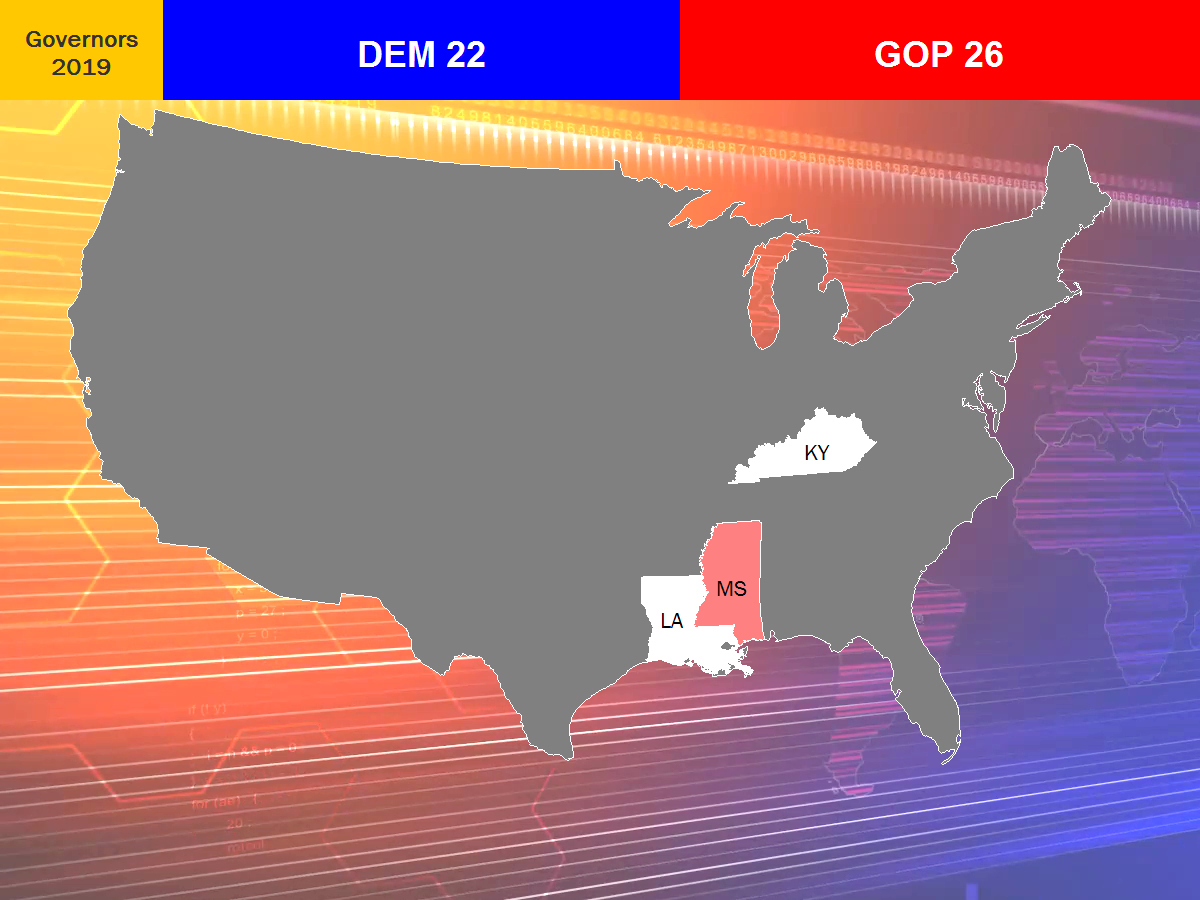
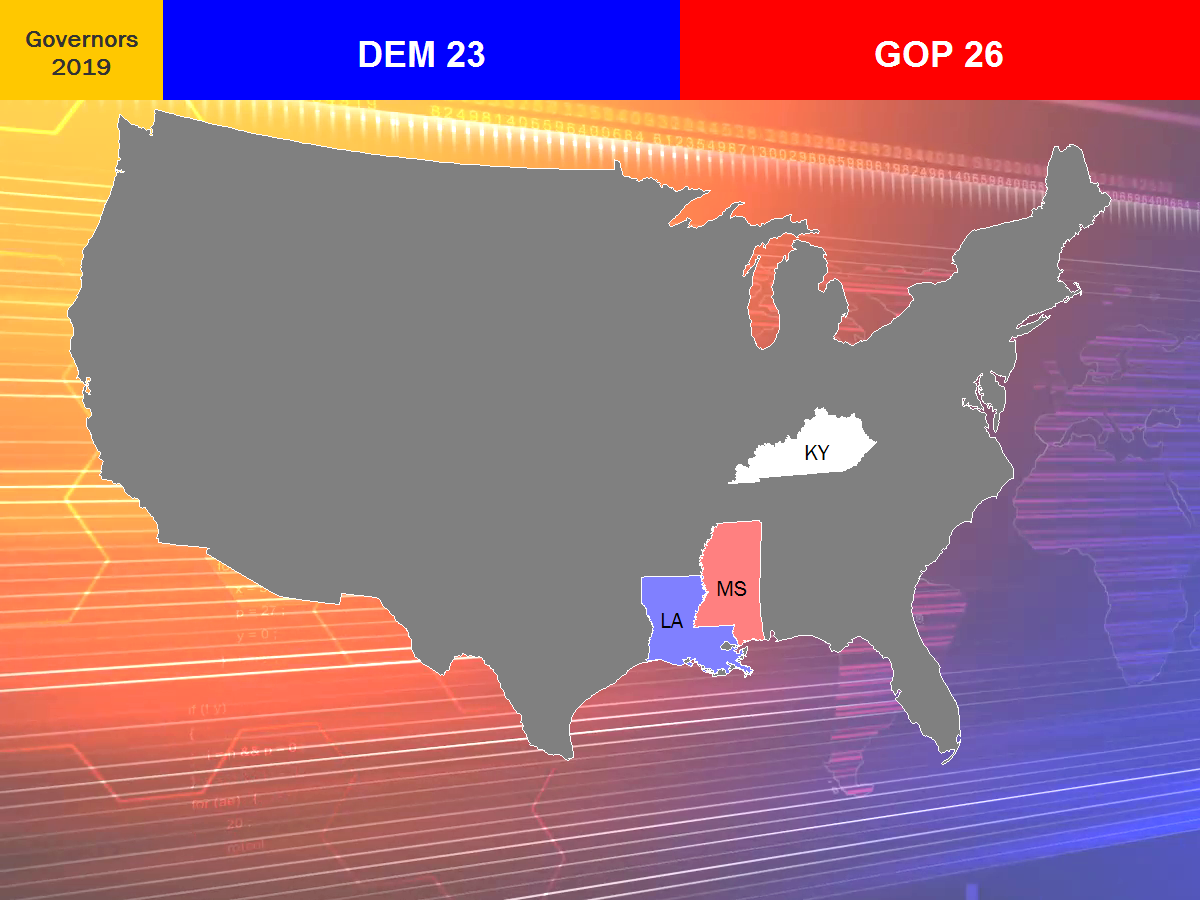
update 2019-11-14

Changed region(s): [[0.5242, 0.6222, 0.6167, 0.7467]]

diff --git a/election/2019/index.html b/election/2019/index.html
@@ -57,14 +57,14 @@
 <td style="text-align: center;">Louisiana<br>(Runoff)</td>
 <td style="text-align: center;">John Bel Edwards</td>
 <td style="text-align: center;">Eddie Rispone</td>
-<td style="text-align: center;"><span style="color: #007f00;">--</span></td>
-<td style="text-align: center;"><span style="color: #007f00;">--</span></td>
-<td style="text-align: center;"><span style="color: #007f00;">--</span></td>
-<td style="text-align: center;"><span style="color: #007f00;">--</span></td>
-<td style="text-align: center;"><span style="color: #007f00;">--</span></td>
-<td style="text-align: center;"><span style="color: #007f00;">--</span></td>
-<td style="text-align: center;"><span style="color: #007f00;">--</span></td>
-<td style="text-align: center;"><span style="color: #007f00;">Tossup</span></td>
+<td style="text-align: center;"><span style="color: #0000ff;">Edwards +1.0</span></td>
+<td style="text-align: center;"><span style="color: #0000ff;">57.5% D</span></td>
+<td style="text-align: center;"><span style="color: #0000ff;">Edwards +0.7</span></td>
+<td style="text-align: center;"><span style="color: #0000ff;">54.4% D</span></td>
+<td style="text-align: center;"><span style="color: #0000ff;">Edwards +1.8</span></td>
+<td style="text-align: center;"><span style="color: #0000ff;">Edwards +3</span></td>
+<td style="text-align: center;"><span style="color: #0000ff;">Edwards 67.7%</span></td>
+<td style="text-align: center;"><span style="color: #0000ff;">Leans D</span></td>
 </tr>
 <tr>
 <td style="text-align: center;">Mississippi</td>
@@ -85,7 +85,7 @@
 <h2>Analysis</h2>
 <p>Off-year major statewide elections include the following:</p>
 <p><strong>Kentucky Governor (Tossup)</strong>. Incumbent Gov. Matt Bevin (R) is up for reelection against state Attorney General Andy Beshear (D), son of Bevin's predecessor, former Gov. Steve Beshear (D). Despite the deep-red lean of the state, Kentucky still has more registered Democrats than Republicans. This and Bevin's extremely low approval ratings spell trouble for his reelection bid. Bevin's campaign has focused on his ties to President Trump, who won Kentucky by almost 30 points in 2016, and casts Beshear as a liberal Democrat out of step with Kentucky politics. If Bevin wins reelection, he will be the first Republican to serve two consecutive terms in Kentucky state history since Kentucky law allowed governors to serve consecutive terms in the 1990s. <i>Note: It's unusual that I'm leaving a race rated as tossup heading into an election. However, there simply isn't enough data for me to run a model. However, if you had forced me to guess something, I would say that Bevin (R) is a slight favorite with 2-1 odds.</i></p>
-<p><strong>Louisiana Governor (Tossup)</strong>. Incumbent Gov. John Bel Edwards (D) is running for reelection this year in the state's runoff election against businessman Eddie Rispone (R) after failing to clear 50% in the jungle primary. Similar to Kentucky, Louisiana is a conservative state but with more registered Democrats than Republicans. Gov. Edwards is a conservative Democrat who has a healthy approval rating despite Louisiana's political leanings. However, given that Edwards underperformed slightly in rural areas and faced low turnout in urban areas, it remains to be seen as to whether he will overcome Louisiana's red lean, or whether he would be able to garner some support from those who supported Congressman Ralph Abraham (R) in the jungle primary.</p>
+<p><strong>Louisiana Governor (Leans D)</strong>. Incumbent Gov. John Bel Edwards (D) is running for reelection this year in the state's runoff election against businessman Eddie Rispone (R) after failing to clear 50% in the jungle primary. Similar to Kentucky, Louisiana is a conservative state but with more registered Democrats than Republicans. Gov. Edwards is a conservative Democrat who has a healthy approval rating despite Louisiana's political leanings. However, given that Edwards underperformed slightly in rural areas and faced low turnout in urban areas, it remains to be seen as to whether he will overcome Louisiana's red lean, or whether he would be able to garner some support from those who supported Congressman Ralph Abraham (R) in the jungle primary. Nonetheless, he heads into the runoff with the edge.</p>
 <p><strong>Mississippi Governor (Leans R)</strong>. Lieutenant Governor Tate Reeves (R) faces off with state Attorney General Jim Hood (D) to replace term-limited Gov. Phil Bryant (R). In a solid-red Deep South state, Hood has been the only Democrat to hold statewide office in Mississippi since 2008, and is likely to be the Democrats' best chance at the Governor's Mansion since Gov. Ronnie Musgrove's (D) re-election campaign in 2003, which he went on to lose to former RNC chair Haley Barbour (R). However, as a legacy of the Jim Crow era, Mississippi state law states that a candidate must both win a majority of the popular vote and a majority of the state house districts to win the election; otherwise, the election goes to the GOP-held Mississippi House of Representatives. This rule makes it unlikely that Hood can defeat Reeves even if he manages an upset in the popular vote.</p>
 <p>&nbsp;</p>
 <p>&nbsp;</p>
